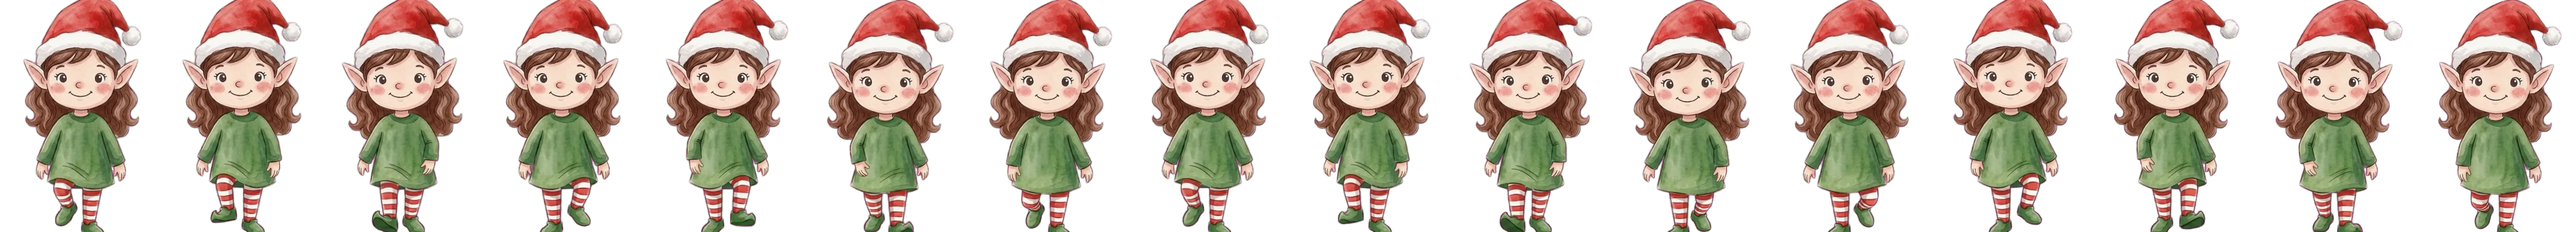
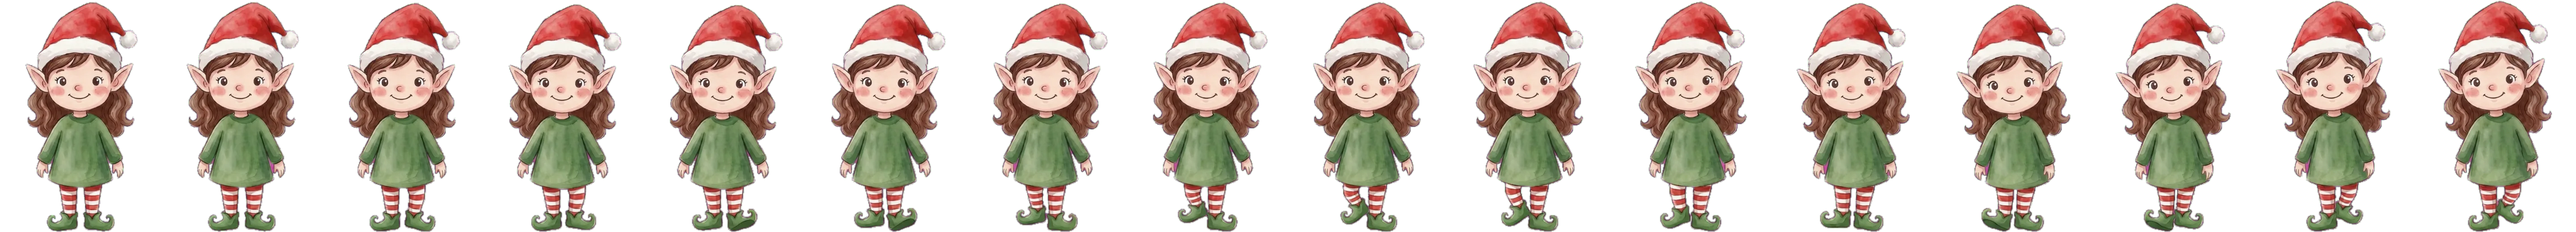
Sniegiaus eisena iš rato įrašo, tikras miaukimas ir durų garsas, be burbulų, elfytės juostos
- katinas eina ratu iš vieno Flow įrašo (katinas-ratas.webp), be veidrodžio
- miau.mp3 ir durys.mp3 vietoj sintetinių garsų
- teksto burbulas rodomas tik kai nėra balso įrašo
- naujos elfytės kalbėjimo ir eisenos juostos su matomais batukais

Claude-Session: https://claude.ai/code/session_014kT4fd7iA31LYgfUqu9PPw

Changed region(s): [[0.0, 0.0, 1.0, 1.0]]

diff --git a/adventokalendorius/app.js b/adventokalendorius/app.js
@@ -121,7 +121,7 @@
     ...[1, 2, 3].map((f) => load(`elfas-mergaite-${f}`, phElf(true, f))),
     ...["elfas-berniukas", "elfas-mergaite"].flatMap((b) => [load(b + "-eina", null), load(b + "-kalba", null)]),
     load("katinas-eina", null), load("katinas-eisena", null), load("katinas-eina-priekis", null), load("katinas-eina-nugara", null), load("katinas-eina-istrizai-priekis", null), load("katinas-eina-istrizai-nugara", null), load("namelio-vidus", null), load("namelio-vidus-video", null), load("katinas-kalba", null), load("katinas-moja", null),
-    load("katinas-sedi-1", null), load("katinas-sedi-2", null), load("katinas-atsisedimas", null), load("katinas-kalba-sedi", null),
+    load("katinas-sedi-1", null), load("katinas-sedi-2", null), load("katinas-atsisedimas", null), load("katinas-ratas", null), load("katinas-kalba-sedi", null),
     ...RIG_PARTS.map((p) => load("katinas/" + p[0], null))
   ];
 
@@ -302,13 +302,14 @@
     if (IMG["katinas-eisena"] && IMG["katinas-eina-priekis"] && IMG["katinas-eina-nugara"]) {
       // trys eisenos (šonas, priekis, nugara) viena ant kitos; matoma tik viena, keičiasi su švelniu perėjimu
       const lay = (cls, n) => IMG[n] ? `<div class="sprite ${cls}" style="background-image:url('${IMG[n]}')"></div>` : "";
-      cat.querySelector(".inner").insertAdjacentHTML("beforeend", `<div class="rig views">${lay("s-side", "katinas-eisena")}${lay("s-dfront", "katinas-eina-istrizai-priekis")}${lay("s-dback", "katinas-eina-istrizai-nugara")}${lay("s-front", "katinas-eina-priekis")}${lay("s-back", "katinas-eina-nugara")}${lay("s-sit", "katinas-atsisedimas")}${lay("s-talk", "katinas-kalba-sedi")}</div>`);
+      cat.querySelector(".inner").insertAdjacentHTML("beforeend", `<div class="rig views">${lay("s-side", "katinas-eisena")}${lay("s-dfront", "katinas-eina-istrizai-priekis")}${lay("s-dback", "katinas-eina-istrizai-nugara")}${lay("s-front", "katinas-eina-priekis")}${lay("s-back", "katinas-eina-nugara")}${lay("s-sit", "katinas-atsisedimas")}${lay("s-talk", "katinas-kalba-sedi")}${lay("s-ring", "katinas-ratas")}</div>`);
       CAT.sitSprite = !!(IMG["katinas-atsisedimas"] && IMG["katinas-kalba-sedi"]);   // atsisėdimas ir kalbėjimas iš Flow klipo
       // pozos ir jų ėjimo kampas ekrane (0 = į šoną, 90 = žemyn į žiūrovą, -90 = aukštyn nuo žiūrovo)
       CAT.angles = { side: 0, front: 90, back: -90 };
       if (IMG["katinas-eina-istrizai-priekis"]) CAT.angles.dfront = 45;
       if (IMG["katinas-eina-istrizai-nugara"]) CAT.angles.dback = -45;
       cat.classList.add("vw"); CAT.rig = true; CAT.views = true;
+      if (IMG["katinas-ratas"]) { CAT.ring = true; cat.classList.add("ring"); }   // eisena iš vieno rato įrašo
     } else if (IMG["katinas-eisena"]) {                  // eisena iš vaizdo įrašo kadrų (18 kadrų juosta)
       cat.querySelector(".inner").insertAdjacentHTML("beforeend", `<div class="rig sprite" style="background-image:url('${IMG["katinas-eisena"]}')"></div>`);
       CAT.rig = true;
@@ -355,7 +356,57 @@
   // katinas pereina per tarpines pozas. VIEW_MARGIN neleidžia mirgėti ties riba, VIEW_HOLD - per greitai keistis.
   const VIEW_HOLD = 260, VIEW_MARGIN = 12; let viewNow = -1, viewT = 0;
   const RING = [["side", 0], ["dfront", 0], ["front", 0], ["dfront", 1], ["side", 1], ["dback", 1], ["back", 0], ["dback", 0]];
+  /* Eisena iš vieno Flow įrašo, kuriame katinas apeina ratą prieš laikrodžio rodyklę (katinas-ratas.webp:
+     98 kadrai, 12 kadrų/s, lentelė 10x10, kadras 400x280). RING_HEADS: kur katinas žiūri kiekviename kadre
+     (0 = į dešinę, 90 = į žiūrovą, -90 = nuo žiūrovo). Kadras parenkamas pagal ėjimo kryptį: einant ratu
+     įrašas groja iš eilės (greitis truputį derinamas), einant tiesiai kartojama tos krypties atkarpa. */
+  const RING_HEADS = [120.0, 116.7, 113.3, 110.0, 106.7, 103.3, 100.0, 98.3, 96.7, 95.0, 93.3, 91.7, 90.0, 89.3, 88.7, 88.0, 82.0, 76.0, 70.0, 61.7, 53.3, 45.0, 35.0, 25.0, 15.0, 11.7, 8.3, 5.0, 3.3, 1.7, 0.0, -0.4, -0.8, -1.2, -1.7, -2.1, -2.5, -2.9, -3.3, -3.8, -4.2, -4.6, -5.0, -13.3, -21.7, -30.0, -36.7, -43.3, -50.0, -53.3, -56.7, -60.0, -63.3, -66.7, -70.0, -75.0, -80.0, -85.0, -86.7, -88.3, -90.0, -90.0, -90.0, -90.0, -90.0, -90.0, -90.0, -90.0, -90.0, -90.0, -93.3, -96.7, -100.0, -106.7, -113.3, -120.0, -125.0, -130.0, -135.0, -143.3, -151.7, -160.0, -165.0, -170.0, -175.0, -176.7, -178.3, -180.0, -181.7, -183.3, -185.0, -186.7, -188.3, -190.0, -198.3, -206.7, -215.0, -227.5];
+  // RING_LOOP[j]: ankstesnis kadras su ta pačia kryptimi ir ta pačia kojų padėtimi (-1, jei tokio nėra)
+  const RING_LOOP = [-1, -1, -1, -1, -1, -1, 0, 0, 2, 3, 4, 5, 6, 7, 7, 9, 10, 10, 12, -1, -1, -1, -1, -1, -1, -1, -1, -1, -1, 23, 24, 24, 26, 26, 27, 29, 29, 31, 31, 33, 29, 33, 34, 34, 31, -1, -1, -1, -1, -1, -1, -1, -1, -1, 48, 49, 50, 51, -1, 53, 54, 55, 56, 57, 58, 59, 60, 61, 62, 63, 64, 65, 65, 65, 65, -1, -1, -1, -1, -1, -1, -1, -1, -1, -1, -1, -1, -1, -1, 83, 84, 84, 86, 87, 88, 88, -1, -1];
+  const RING_N = RING_HEADS.length, RING_FPS = 12, RING_COLS = 10, RING_ROWS = Math.ceil(RING_N / RING_COLS);
+  let ringT = 0, ringLast = 0;
+  const wrap180 = (a) => ((a + 540) % 360) - 180;
+  function ringErr(H, i) { return wrap180(H - RING_HEADS[((i % RING_N) + RING_N) % RING_N]); }
+  function ringBest(H) { let b = 0; for (let i = 1; i < RING_N; i++) if (Math.abs(ringErr(H, i)) < Math.abs(ringErr(H, b))) b = i; return b; }
+  function ringStart(H) { let b = ringBest(H), k = 0; while (k++ < RING_N && Math.abs(ringErr(H, b - 1)) < 22) b = (b - 1 + RING_N) % RING_N; return b; }
+  function ringStep(dx, dy) {
+    const now = performance.now(), dt = Math.min(60, ringLast ? now - ringLast : 16); ringLast = now;
+    const H = Math.atan2(dy, dx) * 180 / Math.PI, e = ringErr(H, Math.floor(ringT));
+    if (Math.abs(e) > 40) ringT = ringBest(H);                                   // staigus posūkis: iškart tinkamas kadras
+    else {
+      ringT += dt / 1000 * RING_FPS * Math.max(0.5, Math.min(1.8, 1 - e / 30));  // atsilieka - greičiau, pralenkia - lėčiau
+      const j = Math.floor(ringT), e2 = ringErr(H, j);
+      if (e2 > 8 && RING_LOOP[j % RING_N] >= 0) ringT = RING_LOOP[j % RING_N] + (ringT - j);   // kartojimas be šuolio
+      else if (e2 > 25) ringT = ringStart(H);                                               // įstrižai: atgal į atkarpos pradžią
+    }
+    ringT = ((ringT % RING_N) + RING_N) % RING_N;
+    ringFrame(Math.floor(ringT));
+  }
+  function ringFrame(k) {
+    cat.querySelector(".s-ring").style.backgroundPosition = `${(k % RING_COLS) / (RING_COLS - 1) * 100}% ${Math.floor(k / RING_COLS) / (RING_ROWS - 1) * 100}%`;
+  }
+  /* Ratu aplink eglutę katino vieta nustatoma pagal įrašą: kiekvienam kadrui apskaičiuota rato vieta, kurioje
+     kelio kryptis sutampa su katino kryptimi įraše. Ten, kur įraše katinas eina tiesiai, jis vis tiek juda pirmyn
+     (bent pusę vidutinio žingsnio). Įrašas rodomas iš eilės be šuolių; RING_ORBIT_RATE - įrašo greitis rate. */
+  const RING_ORBIT_RATE = 0.8;
+  let ringA = null, ringD = null, orbitT = 0;
+  function buildRingOrbit() {
+    // Ratas yra apskritimas ant žemės, matomas iš viršaus kampu, todėl katino kryptį lyginame žemėje:
+    // rato kampas a, kuriame einant prieš laikrodžio rodyklę žiūrima kryptimi h, yra atan2(cos h, -sin h).
+    const N = RING_N, TAU = Math.PI * 2, A = RING_HEADS.map((h) => { const p = h * Math.PI / 180; return Math.atan2(Math.cos(p), -Math.sin(p)); });
+    const U = [A[0]];
+    for (let k = 1; k < N; k++) { let x = (((U[k - 1] - A[k]) % TAU) + TAU) % TAU; if (x > Math.PI) x -= TAU; U.push(U[k - 1] - x); }
+    const W = 12, sm = [];                                 // išlyginimas ±12 kadrų (~1 s), kad greitis nešokinėtų
+    for (let k = 0; k < N; k++) { let t = 0; for (let j = -W; j <= W; j++) { const q = k + j, r = ((q % N) + N) % N; t += U[r] - TAU * Math.floor(q / N); } sm.push(t / (2 * W + 1)); }
+    let d = sm.map((v, k) => k < N - 1 ? v - sm[k + 1] : v - (sm[0] - TAU));
+    d = d.map((x) => Math.max(x, 0.5 * TAU / N));
+    const sum = d.reduce((u, v) => u + v, 0); d = d.map((x) => x * TAU / sum);
+    ringA = [sm[0]]; for (let k = 1; k < N; k++) ringA.push(ringA[k - 1] - d[k - 1]);   // kampas mažėja: prieš laikrodžio rodyklę
+    ringD = d;
+  }
+  function ringOrbitAngle(T) { const k = Math.floor(T) % RING_N, f = T - Math.floor(T); return ringA[k] - f * ringD[k]; }
   function view(dx, dy) {
+    if (CAT.ring) { ringStep(dx, dy); return; }
     if (!CAT.views) return;
     const ok = RING.map(([k]) => k in CAT.angles);
     const phi = (Math.atan2(dy, dx) * 180 / Math.PI + 360) % 360;
@@ -379,12 +430,25 @@
   function orbitTick(t) {
     if (!orbiting) return;
     const dt = Math.min(50, t - lastT); lastT = t;
+    if (CAT.ring) {
+      orbitT = (orbitT + dt / 1000 * RING_FPS * RING_ORBIT_RATE) % RING_N;
+      angle = ringOrbitAngle(orbitT); ringT = orbitT; ringFrame(Math.floor(orbitT));
+      place(cat, ORBIT.x + Math.cos(angle) * ORBIT.rx, ORBIT.y + Math.sin(angle) * ORBIT.ry);
+      requestAnimationFrame(orbitTick); return;
+    }
     angle += ORBIT_DIR * dt * 0.00045;
     const x = ORBIT.x + Math.cos(angle) * ORBIT.rx, y = ORBIT.y + Math.sin(angle) * ORBIT.ry;
     face(-ORBIT_DIR * Math.sin(angle)); view(-ORBIT_DIR * Math.sin(angle) * ORBIT.rx, ORBIT_DIR * Math.cos(angle) * ORBIT.ry); place(cat, x, y);
     requestAnimationFrame(orbitTick);
   }
-  function startOrbit() { orbiting = true; catWalkLook(); cat.classList.add("walking"); lastT = performance.now(); requestAnimationFrame(orbitTick); }
+  function startOrbit() {
+    if (CAT.ring) {                                   // pradėti nuo įrašo kadro, kurio rato vieta arčiausiai katino
+      if (!ringA) buildRingOrbit();
+      let b = 0, bd = 9;
+      for (let k = 0; k < RING_N; k++) { const dd = Math.abs(wrap180((ringA[k] - angle) * 180 / Math.PI)); if (dd < bd) { bd = dd; b = k; } }
+      orbitT = b;
+    }
+    orbiting = true; catWalkLook(); cat.classList.add("walking"); lastT = performance.now(); requestAnimationFrame(orbitTick); }
   function stopOrbit() { orbiting = false; }
   function move(x, y, speed = 300) {           // vienas tiesus atkarpos žingsnis
     return new Promise((res) => {
@@ -458,15 +522,18 @@
   }
 
   /* ---------- Kalbėjimas ---------- */
+  // Kalba balso įrašu. Teksto burbulas rodomas tik tada, kai įrašo nėra arba jo nepavyko paleisti.
   async function say(who, x, y, text, audioName, frames) {
-    bubble.textContent = text; bubble.hidden = false;
-    const bw = bubble.offsetWidth, bh = bubble.offsetHeight;
-    bubble.style.left = Math.max(bw / 2 + 20, Math.min(W - bw / 2 - 20, x)) + "px";
-    bubble.style.top = Math.max(bh + 20, y) + "px";
+    const showBubble = () => {
+      bubble.textContent = text; bubble.hidden = false;
+      const bw = bubble.offsetWidth, bh = bubble.offsetHeight;
+      bubble.style.left = Math.max(bw / 2 + 20, Math.min(W - bw / 2 - 20, x)) + "px";
+      bubble.style.top = Math.max(bh + 20, y) + "px";
+    };
     who.classList.add("talking");
     const img = who.querySelector(".inner > img"); let i = 0;
     const timer = frames && setInterval(() => { img.src = frames[i++ % 2]; }, 190);
-    await voice(audioName, Math.max(2600, text.length * 75));
+    await playFile(audioName).catch(() => { showBubble(); return sleep(Math.max(2600, text.length * 75)); });
     if (timer) { clearInterval(timer); img.src = frames[0]; }
     who.classList.remove("talking"); bubble.hidden = true;
   }

diff --git a/adventokalendorius/styles.css b/adventokalendorius/styles.css
@@ -257,3 +257,11 @@ html, body {
 .cat.sitting .rig.views .s-sit { opacity: 1; animation: spr .55s steps(12, jump-none) 1 both; }
 .cat.sitting.talking .rig.views .s-sit { opacity: 0; }
 .cat.sitting.talking .rig.views .s-talk { opacity: 1; animation: spr 1.5s steps(18, jump-none) infinite alternate; }
+
+/* Eisena iš vieno rato įrašo: lentelė 10x10, kadras 400x280 (platesnis už 330, todėl sluoksnis 21 % platesnis). Kadrą renka JS. */
+.rig.views .s-ring { left: -10.6%; right: -10.6%; background-size: 1000% 1000%; animation: none !important; transition: none !important; transform: none !important; }
+.cat.ring .rig.views .sprite { opacity: 0 !important; }
+.cat.ring:not(.sitting) .rig.views .s-ring { opacity: 1 !important; }
+.cat.ring.sitting .rig.views .s-sit { opacity: 1 !important; }
+.cat.ring.sitting.talking .rig.views .s-sit { opacity: 0 !important; }
+.cat.ring.sitting.talking .rig.views .s-talk { opacity: 1 !important; }

diff --git a/adventokalendorius/index.html b/adventokalendorius/index.html
@@ -6,7 +6,7 @@
 <title>Balto katino žiemos pasaka</title>
 <link rel="preconnect" href="https://fonts.googleapis.com">
 <link rel="stylesheet" href="https://fonts.googleapis.com/css2?family=Mountains+of+Christmas:wght@700&display=swap">
-<link rel="stylesheet" href="styles.css?v=1121a">
+<link rel="stylesheet" href="styles.css?v=1123f">
 </head>
 <body>
 <div id="stage">
@@ -30,7 +30,7 @@
     </div>
   </div>
 </div>
-<script src="content.js?v=1121a"></script>
-<script src="app.js?v=1121a"></script>
+<script src="content.js?v=1123f"></script>
+<script src="app.js?v=1123f"></script>
 </body>
 </html>
